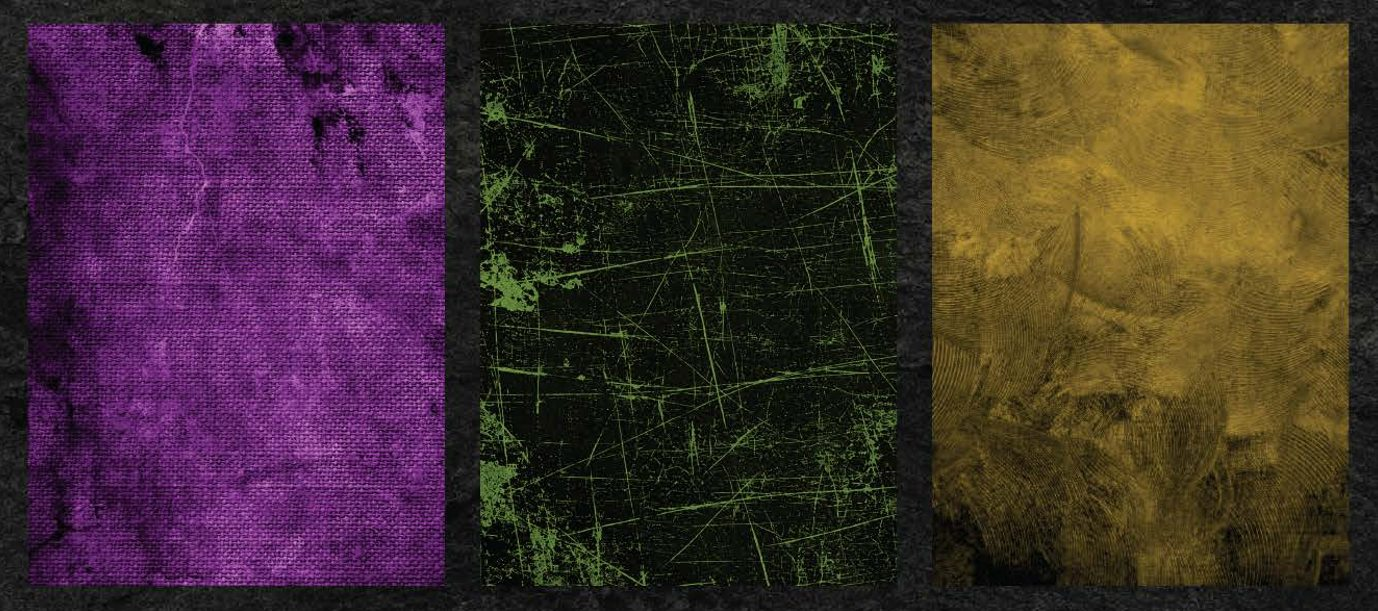
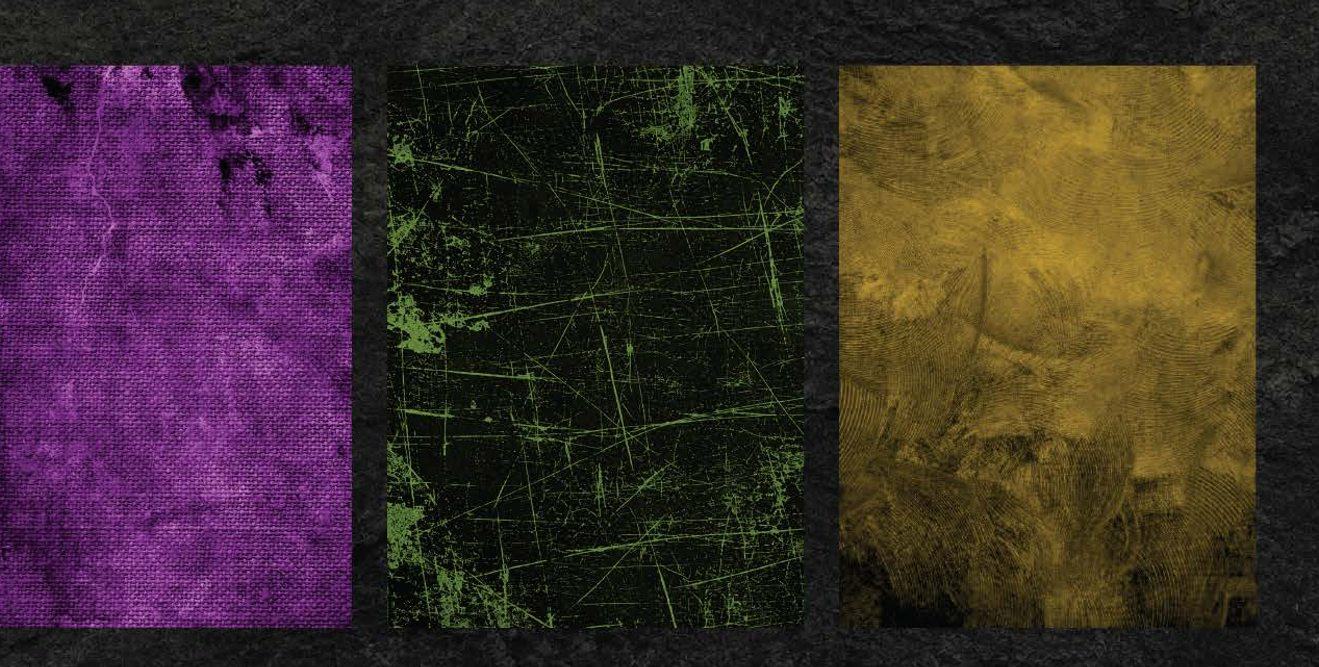
Zombie Walk: aprendizajes y recortes con márgenes parejos
- Aprendizajes: texto definitivo (antes marcado como pendiente).
- Recortes del manual (logo, variantes, reducción, perímetro, tipografías,
  recursos, texturas, mockup de Instagram) rehechos con el mismo margen en
  los cuatro lados y sin textos vecinos; medidas actualizadas en el HTML.
- Sin "Desplazá horizontalmente" en la galería del manual.

diff --git a/proyectos/zombie-walk.html b/proyectos/zombie-walk.html
@@ -155,14 +155,14 @@
                 El isologo combina la tipografía Aller Display con la Z y la W dibujadas a mano, con detalles orgánicos que refuerzan la estética de terror. Cuenta con versiones en positivo y negativo, variantes de color, escala de grises, una reducción mínima con el monograma ZW y un perímetro libre.
               </p>
               <figure class="case-media" data-reveal>
-                <img class="case-img" src="../assets/img/zombie-walk/logo.jpg" alt="Isologo de Zombie Walk en verde y rosa sobre fondo de textura oscura" loading="lazy" width="1333" height="711" />
+                <img class="case-img" src="../assets/img/zombie-walk/logo.jpg" alt="Isologo de Zombie Walk en verde y rosa sobre fondo de textura oscura" loading="lazy" width="1139" height="671" />
                 <figcaption class="annot">Versión principal</figcaption>
               </figure>
               <div class="media-grid media-grid--1" data-reveal data-reveal-stagger>
-                <figure><img class="case-img" src="../assets/img/zombie-walk/logo-positivo-negativo.jpg" alt="Isologo en positivo y en negativo" loading="lazy" width="1400" height="461" /><figcaption class="annot">Positivo y negativo</figcaption></figure>
-                <figure><img class="case-img" src="../assets/img/zombie-walk/logo-variantes-color.jpg" alt="Isologo a dos colores, a un color y grisado a color" loading="lazy" width="1400" height="436" /><figcaption class="annot">Variantes de color</figcaption></figure>
-                <figure><img class="case-img" src="../assets/img/zombie-walk/logo-reduccion.jpg" alt="Reducción mínima del isologo y del monograma ZW" loading="lazy" width="1400" height="368" /><figcaption class="annot">Reducción mínima</figcaption></figure>
-                <figure><img class="case-img" src="../assets/img/zombie-walk/logo-perimetro.jpg" alt="Perímetro libre alrededor del isologo" loading="lazy" width="956" height="633" /><figcaption class="annot">Perímetro libre</figcaption></figure>
+                <figure><img class="case-img" src="../assets/img/zombie-walk/logo-positivo-negativo.jpg" alt="Isologo en positivo y en negativo" loading="lazy" width="1400" height="480" /><figcaption class="annot">Positivo y negativo</figcaption></figure>
+                <figure><img class="case-img" src="../assets/img/zombie-walk/logo-variantes-color.jpg" alt="Isologo a dos colores, a un color y grisado a color" loading="lazy" width="1400" height="392" /><figcaption class="annot">Variantes de color</figcaption></figure>
+                <figure><img class="case-img" src="../assets/img/zombie-walk/logo-reduccion.jpg" alt="Reducción mínima del isologo y del monograma ZW" loading="lazy" width="1400" height="434" /><figcaption class="annot">Reducción mínima</figcaption></figure>
+                <figure><img class="case-img" src="../assets/img/zombie-walk/logo-perimetro.jpg" alt="Perímetro libre alrededor del isologo" loading="lazy" width="955" height="677" /><figcaption class="annot">Perímetro libre</figcaption></figure>
               </div>
             </section>
 
@@ -192,18 +192,18 @@
                   <p class="ds-card__label mono"><span>Tipografía</span><span>Familias</span></p>
                   <div class="ds-type">
                     <p class="ds-type__row"><span>Aller Display</span><span class="mono">Isologo</span></p>
-                    <img class="case-img" src="../assets/img/zombie-walk/tipo-aller.jpg" alt="Muestra de la tipografía Aller Display" loading="lazy" width="1000" height="355" />
+                    <img class="case-img" src="../assets/img/zombie-walk/tipo-aller.jpg" alt="Muestra de la tipografía Aller Display" loading="lazy" width="1000" height="305" />
                     <p class="ds-type__row"><span>Bebas Neue Pro</span><span class="mono">Subtítulos y textos</span></p>
-                    <img class="case-img" src="../assets/img/zombie-walk/tipo-bebas.jpg" alt="Muestra de la tipografía Bebas Neue Pro" loading="lazy" width="1000" height="355" />
+                    <img class="case-img" src="../assets/img/zombie-walk/tipo-bebas.jpg" alt="Muestra de la tipografía Bebas Neue Pro" loading="lazy" width="1000" height="367" />
                   </div>
                 </div>
                 <div class="ds-card">
                   <p class="ds-card__label mono"><span>Recursos gráficos</span><span>Elementos</span></p>
-                  <img class="case-img" src="../assets/img/zombie-walk/recursos-graficos.jpg" alt="Círculos de doble borde, líneas punteadas y manos de zombie en verde y rosa" loading="lazy" width="1400" height="509" />
+                  <img class="case-img" src="../assets/img/zombie-walk/recursos-graficos.jpg" alt="Círculos de doble borde, líneas punteadas y manos de zombie en verde y rosa" loading="lazy" width="1400" height="523" />
                 </div>
                 <div class="ds-card">
                   <p class="ds-card__label mono"><span>Texturas</span><span>Fondos</span></p>
-                  <img class="case-img" src="../assets/img/zombie-walk/texturas.jpg" alt="Texturas violeta, verde y amarilla" loading="lazy" width="1378" height="611" />
+                  <img class="case-img" src="../assets/img/zombie-walk/texturas.jpg" alt="Texturas violeta, verde y amarilla" loading="lazy" width="1319" height="667" />
                 </div>
               </div>
             </section>
@@ -227,7 +227,6 @@
                 <img class="case-img" src="../assets/img/zombie-walk/manual-16.jpg" alt="Manual de marca: posteos identificatorios" loading="lazy" width="1100" height="619" />
                 <img class="case-img" src="../assets/img/zombie-walk/manual-19.jpg" alt="Manual de marca: mockup de vía pública" loading="lazy" width="1100" height="619" />
               </div>
-              <p class="rail-hint mono">Desplazá horizontalmente →</p>
             </section>
 
             <!-- 06 -->
@@ -264,7 +263,7 @@
                 <figure><img class="case-img" src="../assets/img/zombie-walk/mockup-via-publica-2.jpg" alt="Afiche persuasivo en un refugio de colectivo" loading="lazy" width="1600" height="1120" /><figcaption class="annot">Vía pública</figcaption></figure>
               </div>
               <figure class="case-media" data-reveal>
-                <img class="case-img" src="../assets/img/zombie-walk/mockup-instagram.jpg" alt="Mockup de un perfil de Instagram con los posteos de la identidad" loading="lazy" width="933" height="867" />
+                <img class="case-img" src="../assets/img/zombie-walk/mockup-instagram.jpg" alt="Mockup de un perfil de Instagram con los posteos de la identidad" loading="lazy" width="899" height="788" />
                 <figcaption class="annot">Instagram (perfil ficticio)</figcaption>
               </figure>
             </section>
@@ -274,7 +273,13 @@
               <p class="case-section__num mono">07</p>
               <h2 class="case-section__title" id="t-aprendizajes"><em>Aprendizajes</em></h2>
               <p class="case-section__text">
-                <span class="tbd">Texto pendiente.</span><span class="tbd-tag">pendiente</span>
+                El desarrollo del proyecto me permitió profundizar en la construcción de identidades visuales como sistemas, desde la conceptualización hasta su aplicación en diferentes medios.
+              </p>
+              <p class="case-section__text">
+                Aprendí a traducir un concepto en un lenguaje gráfico propio y a comprender cómo cada elemento visual contribuye a construir un mensaje. También avancé en la comunicación de marca, adaptando las piezas según su propósito, público y contexto, sin perder la coherencia de la identidad.
+              </p>
+              <p class="case-section__text">
+                Durante el proceso, la atención al detalle y la búsqueda de consistencia me llevaron a revisar y cuestionar muchas de mis decisiones. Así desarrollé una mirada más crítica y aprendí a equilibrar el perfeccionismo con la capacidad de priorizar y cerrar decisiones de diseño.
               </p>
             </section>
           </div>
